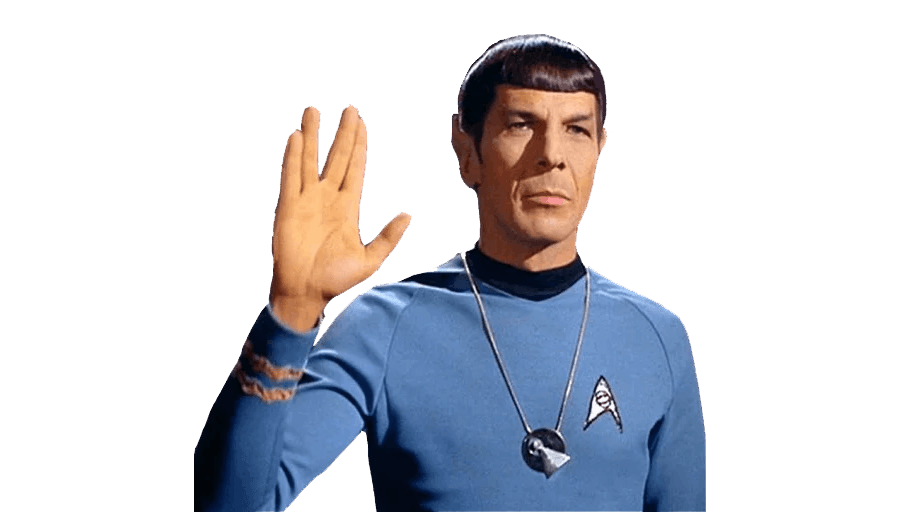
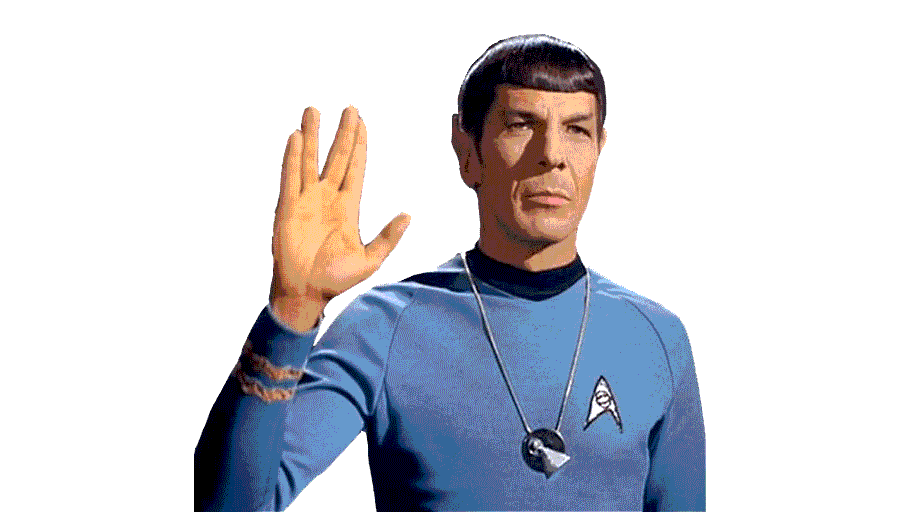
made pngs crunchier

Changed region(s): [[0.2178, 0.0615, 0.7778, 0.9846]]

diff --git a/session04/leocities/index.html b/session04/leocities/index.html
@@ -17,7 +17,7 @@
     <img src="/session04/gorn.png" width=200px; alt="gorn">
     <img src="/session04/kirk.png" width=300px; alt="kirk">
     <img src="/session04/scullyandmulder.png" width=300px; alt="mulderandscully">
-    <img src="/session04/skinner.jpg" width=200px; alt="skinner">
+    <img src="/session04/skinner.png" width=200px; alt="skinner">
 
 </div>
    <!-- <div>
